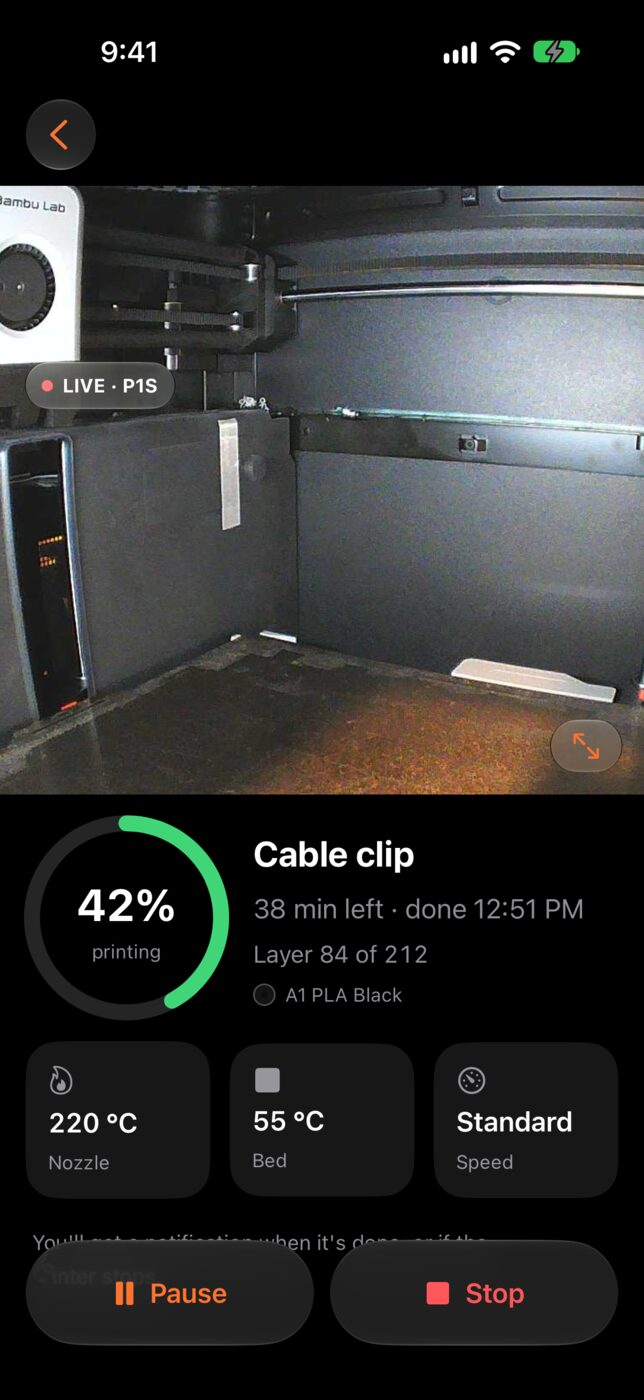
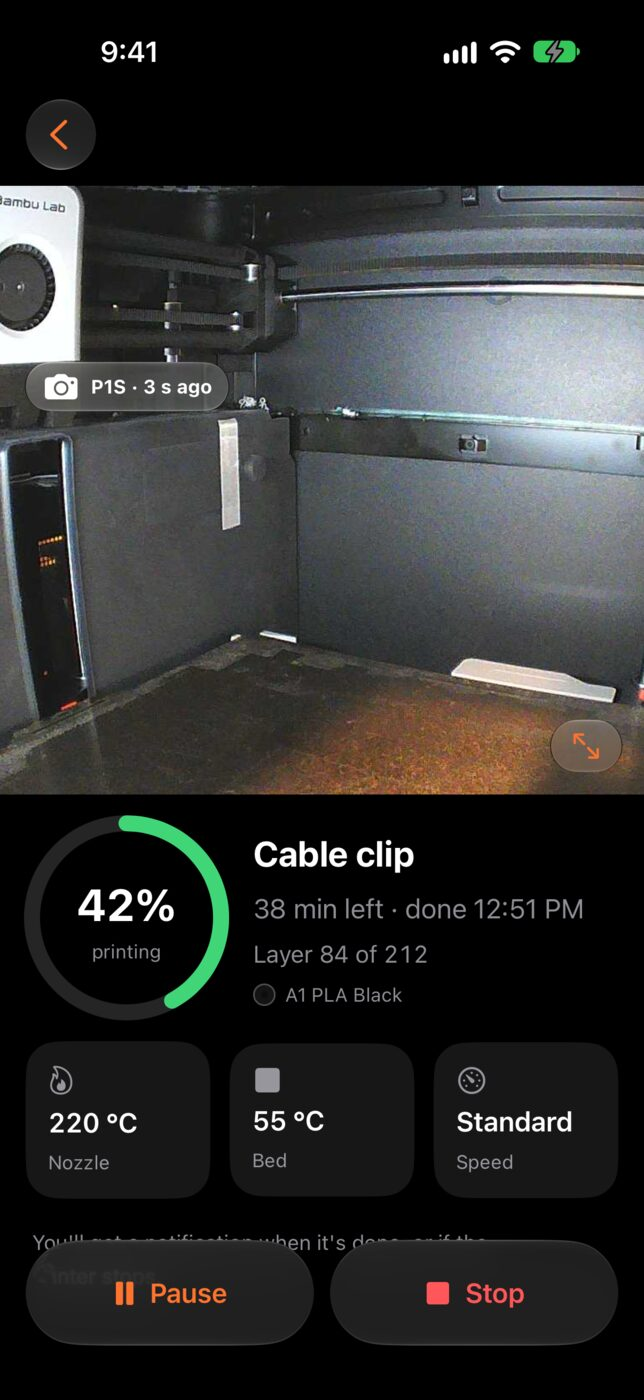
docs: overhaul PRD, exact back-end gaps and mockup fixes
Quality/strength become named slice_stl arguments in both MCPs; v1 prints
one colour with multi-colour as M3b (per-body export, counterpart_make_3mf,
load_filament_ids); HMS message and stage tables marked new (generated from
the pinned Bambu Studio resources); relay auth is token-scoped rate limiting
in a Durable Object; CloudKit works under Developer ID; delivery needs the
Mac app running; CloudKit coalescing limits restored. Mockups: camera shown
as a refreshing photo, bottom bars use safeAreaBar, sidebar thumbnails fixed.

Claude-Session: https://claude.ai/code/session_016NCatpjNt92tzrh631HByq

Changed region(s): [[0.0621, 0.2457, 0.3727, 0.3071]]

diff --git a/docs/design/overhaul/mockup-app/iOS/Print.swift b/docs/design/overhaul/mockup-app/iOS/Print.swift
@@ -211,7 +211,7 @@ struct PrintingView: View {
             VStack(alignment: .leading, spacing: 18) {
                 FillImage(name: "bed.jpg", height: 380)
                     .overlay(alignment: .topLeading) {
-                        HStack(spacing: 6) { Circle().fill(.red).frame(width: 7); Text("LIVE · P1S").font(.caption.weight(.bold)) }
+                        HStack(spacing: 6) { Image(systemName: "camera.fill"); Text("P1S · 3 s ago").font(.caption.weight(.bold)) }
                             .padding(.horizontal, 10).padding(.vertical, 6).glassEffect(.regular, in: .capsule).padding(.top, 110).padding(.leading, 16)
                     }
                     .overlay(alignment: .bottomTrailing) {
@@ -250,7 +250,7 @@ struct PrintingView: View {
         .toolbar {
             ToolbarItem(placement: .topBarLeading) { Button { } label: { Image(systemName: "chevron.left") } }
         }
-        .safeAreaInset(edge: .bottom) {
+        .safeAreaBar(edge: .bottom) {
             GlassEffectContainer(spacing: 10) {
                 HStack(spacing: 10) {
                     Button { } label: { Label("Pause", systemImage: "pause.fill").frame(maxWidth: .infinity).frame(height: 36) }.buttonStyle(.glass)

diff --git a/docs/design/overhaul/mockup-app/iOS/Home.swift b/docs/design/overhaul/mockup-app/iOS/Home.swift
@@ -70,7 +70,7 @@ struct NowPrintingCard: View {
         HStack(spacing: 14) {
             ZStack(alignment: .topLeading) {
                 FillImage(name: "bed.jpg", height: 96).frame(width: 96)
-                Text("LIVE").font(.system(size: 9, weight: .heavy)).padding(.horizontal, 5).padding(.vertical, 2).background(.red, in: .capsule).padding(6)
+                Text("3 s ago").font(.system(size: 9, weight: .heavy)).padding(.horizontal, 5).padding(.vertical, 2).background(.black.opacity(0.6), in: .capsule).padding(6)
             }
             .clipShape(.rect(cornerRadius: 18))
             VStack(alignment: .leading, spacing: 6) {

diff --git a/docs/design/overhaul/mockup-app/iOS/Project.swift b/docs/design/overhaul/mockup-app/iOS/Project.swift
@@ -55,7 +55,7 @@ struct ProjectView: View {
                 } label: { Image(systemName: "ellipsis") }
             }
         }
-        .safeAreaInset(edge: .bottom) { if project.stage != .needsYou { bottomBar } }
+        .safeAreaBar(edge: .bottom) { if project.stage != .needsYou { bottomBar } }
     }
 
     // MARK: Hero

diff --git a/docs/design/overhaul/PRD.md b/docs/design/overhaul/PRD.md
@@ -200,9 +200,10 @@ Screenshot: `screens/phone-print.jpg`. The flow is modelled on Bambu Handy and M
   - Offline printers are dimmed and show why.
   - The last printer used is preselected.
 - **Plate preview.** The model on a plate, with time, grams and layer count as glass capsules. These come from slicing with the printer MCP (`slice_stl` and its estimate) as soon as a printer is chosen.
-- **Colours:**
-  - Each part or colour of the model maps to an AMS slot or the loaded spool, matched by the MCP's material and colour.
-  - Tap a slot to change it. Grams are shown per colour.
+- **Colours.**
+  - **v1: one colour.** Pick an AMS slot or the loaded spool. It's preselected by matching the MCP's live filaments to the profile's material. Grams are shown.
+  - **Multi-colour (M3b), when the result has separate parts.** Each part maps to a slot, and grams are shown per part. The pipeline is in §8.5.
+  - The mockup shows the multi-colour version.
   - A printer without an AMS shows "Uses the loaded filament: *material colour*", with a reminder to change it if needed.
 - **Quality:** Draft, Standard or Fine (layer height).
 - **Strength:** Standard, Strong or Max (walls and infill).
@@ -420,6 +421,8 @@ Both MCPs gain the same small set of tools with the same arguments and results. 
 | `counterpart_print_progress` | new; wraps `getStatus` | new; per-firmware mapping below |
 | `camera_snapshot` | existing | **new**, with the same arguments and result as Bambu's |
 | `get_printer_filaments` | existing | **new**, single-slot result |
+| `slice_stl` arguments | **add** `layer_height` (mm), `wall_loops` (int) and `sparse_infill_density` (e.g. `"15%"`). The MCP writes them as a process override on top of the machine and process preset it already resolves (Bambu Studio/Orca keys `layer_height`, `wall_loops`, `sparse_infill_density`). Today the only route is a whole `slicer_profile` file | **add** the same three arguments, mapped to the slicer in use (Orca keys as for Bambu; PrusaSlicer `layer_height`, `perimeters`, `fill_density`) |
+| `counterpart_make_3mf` (M3b) | **new**: `{parts: [{stl_path, name}], out_path}` → a multi-object 3MF, one object per part, for multi-colour | not needed: generic printers are single-extruder in v1 |
 | `pause_print` / `resume_print` / `cancel_print` | existing | `cancel_print` exists; **add** pause and resume |
 | `print_3mf` result | **add** `taskId` and `subtaskName` to the result. It already sends `task_id = submissionId` and `subtask_name` (`printers/bambu.ts:957-961`) but doesn't return them | `upload_gcode` / `start_print` result: **add** `jobName` (the remote file name) |
 
@@ -451,7 +454,7 @@ Both MCPs gain the same small set of tools with the same arguments and results. 
 
 | Firmware | Request | state | progress / time | layers | problems |
 |---|---|---|---|---|---|
-| **Bambu** (MQTT report, cached) | none; reads the MCP's `reportSnapshots` | `gcode_state`: IDLE→idle, PREPARE/SLICING→preparing, RUNNING→printing, PAUSE→paused, FINISH→finished, FAILED→failed | `mc_percent`; `mc_remaining_time` is in **minutes**, so ×60 | `layer_num`, `total_layer_num` | `print_error` (non-zero, as 8-digit hex); each `hms[]` entry as `AAAA_BBBB_CCCC_DDDD` from `attr`/`code`. Messages come from Bambu's published HMS table, bundled in the MCP; `url` points to Bambu's page for that code. `stg_cur` maps to `job.stage` through the MCP's stage table |
+| **Bambu** (MQTT report, cached) | none; reads the MCP's `reportSnapshots` | `gcode_state`: IDLE→idle, PREPARE/SLICING→preparing, RUNNING→printing, PAUSE→paused, FINISH→finished, FAILED→failed | `mc_percent`; `mc_remaining_time` is in **minutes**, so ×60 | `layer_num`, `total_layer_num` | `print_error` (non-zero, as 8-digit hex); each `hms[]` entry as `AAAA_BBBB_CCCC_DDDD` from `attr`/`code`. **New:** messages come from a generated `src/safety/hms-messages.ts`, built from the same Bambu Studio `resources/hms/hms_en_<prefix>.json` files and pinned tag that `scripts/generate-hidden-hms.mjs` already reads for `hidden-hms.ts`. `url` points to Bambu's page for that code. **New:** `stg_cur` maps to `job.stage` through a generated stage table, from Bambu Studio's stage strings at the same tag; the MCP has none today |
 | **OctoPrint** | `GET /api/job`, plus `GET /api/printer` for temperatures | `state` text: Printing→printing, Pausing/Paused→paused, Operational→idle (finished when the last job's `progress.completion` = 100), Error→failed, Offline→offline | `progress.completion`; `progress.printTime`; `progress.printTimeLeft` | not in core: omitted | `state.error` |
 | **Klipper** (Moonraker) | `GET /printer/objects/query?print_stats&virtual_sdcard&display_status&extruder&heater_bed&webhooks` | `print_stats.state`: standby→idle, printing, paused, complete→finished, cancelled, error→failed; `webhooks.state` ≠ ready→busy | `display_status.progress` ×100 (falling back to `virtual_sdcard.progress`); `print_stats.print_duration`; remaining = file `estimated_time` (`GET /server/files/metadata?filename=`) − `print_duration` | `print_stats.info.current_layer` / `total_layer` (set when the slicer emits `SET_PRINT_STATS_INFO`; OrcaSlicer and PrusaSlicer do) | `print_stats.message`; `webhooks.state_message` |
 | **PrusaLink** | `GET /api/v1/status` | `printer.state`: PRINTING, PAUSED, FINISHED, STOPPED→cancelled, ERROR→failed, ATTENTION→paused (with a problem), IDLE/READY→idle, BUSY→busy | `job.progress`; `job.time_printing`; `job.time_remaining` | omitted | ATTENTION/ERROR plus `GET /api/v1/job` details |
@@ -501,10 +504,16 @@ Each change follows the MCP repo's own AGENTS.md and release process.
     - layer height Draft 0.28 / Standard 0.20 / Fine 0.12 mm;
     - walls and infill Standard 2/15%, Strong 4/25%, Max 6/40%.
 
-    They go in through `slice_stl`'s existing settings arguments or `slice_with_template`, whichever the installed MCP exposes. Detect which from its tool schema, as `print.ts` already does for its other optional arguments.
-  - **Colour map:**
-    - Bambu: `ams_mapping` / `ams_slots`, or `auto_match_ams` when the user didn't change it.
-    - Generic: the material chosen for the single slot.
+    They go in as the new `slice_stl` arguments `layer_height`, `wall_loops` and `sparse_infill_density` (§8.4). If the installed MCP lacks them (checked from its tool schema, as `print.ts` already does for its other optional arguments), the print sheet shows only Standard, which means the preset's own values.
+  - **Colour, v1 (one colour):**
+    - Bambu: `print_3mf` with `use_ams: true` and `ams_slots: [chosen tray index]`, or `auto_match_ams: true` when the user kept the preselection.
+    - Bambu, external spool: `use_ams: false`.
+    - Generic: `slice_stl` with the chosen material's filament profile through `load_filaments`.
+  - **Colour, M3b (multi-colour):**
+    1. The touch-up or design pass exports each body as its own STL through the printer MCP's Blender bridge (`blender_mcp_call`, export of the selected object). The pass contract gains `parts: [{name, stl}]`.
+    2. `counterpart_make_3mf` combines them.
+    3. `slice_stl` slices with `load_filaments` (one profile per chosen slot) and `load_filament_ids`. Both are existing arguments that map filaments to objects.
+    4. `print_3mf` prints with `ams_mapping` set from the print sheet.
 - **Plate check (existing, extended).**
   - Before `print_3mf`, the companion takes `camera_snapshot`, and `judgePlate` (`objects/bedcheck.ts`) asks the user's own Claude.
   - **Clear:** nothing is shown and the run continues.
@@ -619,14 +628,20 @@ For every event with `notify ≠ none`:
 
 **Live Activity relay** (new: a Cloudflare Worker at `https://counterpart.dtmont.com/relay/v1`).
 - **Why it's needed.** A Live Activity updates on the Lock Screen only from the app itself or from an APNs push signed with the team's key. Apple says that key "must remain private", so it can't ship in the Mac app.
-- **Cost.** The Worker holds only that key (secrets `APNS_KEY_P8`, `APNS_KEY_ID`, `TEAM_ID = X7F5F9LR24`) and stores nothing. It fits Cloudflare's free tier.
+- **Cost.** The Worker holds the key as secrets (`APNS_KEY_P8`, `APNS_KEY_ID`, `TEAM_ID = X7F5F9LR24`). Its only state is rate-limit counters (below); it stores no tokens, payloads or user data. It fits Cloudflare's free tier.
 - **The one manual step:** the owner creates the APNs key in the developer portal.
 - **Phone → Mac:**
   - The phone sends its push-to-start token (`Activity<PrintAttributes>.pushToStartTokenUpdates`) and each activity's update token (`activity.pushTokenUpdates`) to the Mac. On the LAN they go through `POST /v1/devices/live-activity-tokens` (new); otherwise through a `CounterpartDevice` CloudKit record.
   - Tokens never go to the Worker except inside a push request.
 - **Mac → Worker:** `POST /relay/v1/live-activity` with `{token, kind: "start"|"update"|"end", attributes?, contentState, staleDate, priority, alert?}`.
-  - The request is signed with a per-install key registered on first use.
-  - The Worker validates the payload against the `PrintAttributes` schema, limits each install to one update every 10 s per activity and 2,000 a day, and rejects anything else. It is not a general push relay.
+  - **Threat model.** A Live Activity push token is known only to the user's own devices and Mac, so a caller without a token can't reach anyone. The Worker's job is to stop abuse of the team's APNs key: floods, or pushes that aren't Live Activities.
+  - **Payload checks.** The Worker validates the payload against the `PrintAttributes` / content-state schema (title ≤ 80 chars, alert ≤ 200 chars) and rejects anything else. It is not a general push relay.
+  - **Rate limits,** each kept in a Durable Object with a 24-hour window, keyed as shown:
+    - per token (SHA-256 of the token): one update every 10 s and 2,000 a day;
+    - per client IP: 20,000 a day;
+    - globally: a daily cap.
+  - **An APNs `410` or `BadDeviceToken`** adds the token hash to a 30-day deny list, in the same Durable Object.
+  - **No per-install authentication in v1.** App Attest is documented as unavailable on Mac. macOS 27 reports are still provisional ([Apple docs](https://developer.apple.com/documentation/devicecheck/dcappattestservice/issupported), [forum](https://developer.apple.com/forums/thread/836329)). If `DCAppAttestService.isSupported` returns true in the shipping Mac app, add attestation of the Mac app as a later hardening step.
 - **Worker → APNs:** HTTP/2 to `api.push.apple.com`, with these headers:
   - `apns-push-type: liveactivity`;
   - `apns-topic: com.scantomake.push-type.liveactivity`;
@@ -637,6 +652,11 @@ For every event with `notify ≠ none`:
   - `start` on `print.started` (push-to-start, so it appears even if the phone app isn't open);
   - `update` on each `print.status`, `print.paused` and `print.resumed`;
   - `end` on done, failed or cancelled, with a `dismissal-date` 4 hours later.
+- **CloudKit works with Developer ID.** The Mac app can use CloudKit and push whether it ships through the Mac App Store or with Developer ID. Apple has allowed CloudKit and remote notifications for Developer ID-signed apps since 2016 ([summary](https://mjtsai.com/blog/2016/06/16/cloudkit-and-map-kit-for-gatekeeper-apps)). Deploy the CloudKit schema to production before the first release, because Developer ID and App Store builds use the production environment.
+- **Delivery depends on the Mac app running.** Events are always logged by the companion, which runs as its own `SMAppService` agent. They only reach the phone, CloudKit and the relay while Counterpart for Mac is running.
+  - The app opens at login by default (journey.md §3.3).
+  - Its **Quit** menu item reads "Quit Counterpart (your phone stops getting updates)".
+  - On the next launch, catch-up writes every missed record to CloudKit. It notifies only for terminal events (`print.done`, `print.failed`, `pass.ready`, `pass.ask`) that are still unanswered, once each.
 - **Without the relay** (no key yet, or the Worker is unreachable):
   - The phone starts the activity itself when the user taps Print, or the next time the app opens during a print.
   - It updates the activity whenever it gets time: in the foreground, on CloudKit content-available pushes, and on `BGAppRefreshTask`.
@@ -697,6 +717,11 @@ The app's `Localizable.strings` maps `"%1$@" = "%1$@";`.
 4. Sets `threadIdentifier = projectId` and a `relevanceScore`.
 
 If the fetch runs past the extension's time limit, the notification is delivered without the image.
+
+**CloudKit's limits, stated honestly.** CloudKit coalesces pushes and can leave fields out to stay under APNs' size limit. Apple: "don't rely on them for specific changes".
+- Discrete events (ready, ask, plate, milestone, done, failed) are reliable enough as alerts. When the app opens, it always reconciles from the records, never from the pushes.
+- Silent `proj-silent` pushes are throttled by iOS, so they can't carry per-percent progress. That's what the relay (§8.8) is for.
+- Everything needs the same iCloud account on both devices. Without iCloud, the phone gets events only from the LAN long poll while the app is running or has background time. Settings says so.
 
 **Actions:**
 - Background actions without a destructive outcome run without opening the app: **Ask for Changes…** (`UNTextInputNotificationAction`), **Best Guess**, **Look Again**, **It's Clear**, **Pause** and **Resume**.
@@ -809,9 +834,10 @@ Each milestone ends in an on-device check with screenshots compared against `scr
 | # | Milestone | Done when |
 |---|---|---|
 | M0 | **Foundation.** `CounterpartKit` package; pure-SwiftUI iPhone app shell; pairing ported out of React Native; React Native removed. | The app pairs by QR and by the nearby card on a real iPhone, and the app bundle no longer contains React Native |
-| M1 | **Back end and notifications.** All of the following:<br>• fixes: `remaining` → `timeRemaining`, "printed" set only on finish, catalog de-duplication, Codex `config.toml` source<br>• `PrinterSessionPool`<br>• `counterpart_printer_info` and `counterpart_print_progress`, plus `taskId` in the `print_3mf` result, in bambu-printer-mcp<br>• print monitor<br>• event log, `GET /v1/events` and `events.wait`<br>• Mac `EventRelay` (Mac notifications and CloudKit)<br>• iPhone subscriptions, Notification Service Extension and background actions<br>• structured `pass.*` events, with a generated title and a what-changed summary | On a real P1S print, all of these hold:<br>• with the phone locked and on cellular, the halfway notification arrives with a camera frame, and so does "done"<br>• restarting the companion mid-print sends no duplicate milestone<br>• a print that never starts produces `print.not-started` within 3 min<br>• replying to a "ready" notification from the Lock Screen starts a new pass |
+| M1 | **Back end and notifications.** All of the following:<br>• fixes: `remaining` → `timeRemaining`, "printed" set only on finish, catalog de-duplication, Codex `config.toml` source<br>• `PrinterSessionPool`<br>• `counterpart_printer_info` and `counterpart_print_progress` (with the generated HMS and stage tables), plus `taskId` in the `print_3mf` result, in bambu-printer-mcp<br>• print monitor<br>• event log, `GET /v1/events` and `events.wait`<br>• Mac `EventRelay` (Mac notifications and CloudKit)<br>• iPhone subscriptions, Notification Service Extension and background actions<br>• structured `pass.*` events, with a generated title and a what-changed summary | On a real P1S print, all of these hold:<br>• with the phone locked and on cellular, the halfway notification arrives with a camera frame, and so does "done"<br>• restarting the companion mid-print sends no duplicate milestone<br>• a print that never starts produces `print.not-started` within 3 min<br>• replying to a "ready" notification from the Lock Screen starts a new pass |
 | M2 | **iPhone core.** Home, New, Project (all states), Ask card, Settings and About. | Each screen matches its mockup on iPhone 18 Pro, iPhone 17e, Duo closed and iPad |
-| M3 | **Print and Live Activity.**<br>• print sheet (printers from both MCPs, slice estimate, colour map, quality, strength)<br>• plate check with the alert and per-printer notes<br>• Printing screen with the camera<br>• pause, resume and stop<br>• Live Activity, with the relay Worker once the APNs key exists<br>• the Counterpart tools, `camera_snapshot`, `get_printer_filaments`, pause and resume in mcp-3D-printer-server<br>• `CounterpartCommand` for use away from home | All of these hold:<br>• a real P1S print from the phone shows the Live Activity on the Lock Screen and the Mac menu bar, counting down<br>• a deliberate plate obstruction is caught and cleared with Look Again<br>• a full run on OctoPrint's virtual printer and a Klipper simulator through mcp-3D-printer-server delivers progress, the halfway notification and done<br>• Pause from the Lock Screen pauses the P1S |
+| M3 | **Print and Live Activity.**<br>• print sheet (printers from both MCPs, slice estimate, colour map, quality, strength)<br>• plate check with the alert and per-printer notes<br>• Printing screen with the camera<br>• pause, resume and stop<br>• Live Activity, with the relay Worker once the APNs key exists<br>• the `slice_stl` quality arguments in both MCPs<br>• the Counterpart tools, `camera_snapshot`, `get_printer_filaments`, pause and resume in mcp-3D-printer-server<br>• `CounterpartCommand` for use away from home | All of these hold:<br>• a real P1S print from the phone shows the Live Activity on the Lock Screen and the Mac menu bar, counting down<br>• a deliberate plate obstruction is caught and cleared with Look Again<br>• a full run on OctoPrint's virtual printer and a Klipper simulator through mcp-3D-printer-server delivers progress, the halfway notification and done<br>• Pause from the Lock Screen pauses the P1S |
+| M3b | **Multi-colour.** The pass contract gains `parts`; per-body STL export through the Blender bridge; `counterpart_make_3mf`; `slice_stl` with `load_filaments`/`load_filament_ids`; `print_3mf` `ams_mapping`; per-part colour map in the print sheet. | A two-part result prints in two AMS colours on the P1S, from the phone |
 | M4 | **Mac rebuild.** SwiftUI scenes, main window, inspector, print sheet, popover, Settings with de-duplicated devices, drop-to-create. | The same project is visible and actionable on the Mac and the phone at once, and re-pairing a phone leaves one row |
 | M5 | **Scan in hand.** As specified in §11. | The §11 pass criteria are met on a real iPhone |
 | M6 | **System surfaces.** Widgets, Control Center control, App Intents and Siri, Spotlight, Share extension, iPad keyboard shortcuts. | Each one is demonstrated on a device |
@@ -822,5 +848,5 @@ Each milestone ends in an on-device check with screenshots compared against `scr
 
 ## 14. Open questions and the one manual step
 
-1. **Distribution.** TestFlight first for the iPhone app, and Developer ID with Sparkle for the Mac (journey.md §3.2)? Or App Store for both from the start?
+1. **Distribution.** TestFlight first for the iPhone app, and Developer ID with Sparkle for the Mac (journey.md §3.2)? Or App Store for both from the start? Either way CloudKit and push work (§8.8), so this choice doesn't block anything in M1–M3.
 2. **Manual step (not a decision): the APNs key.** The owner creates an APNs auth key in the Apple developer portal and puts it in the Worker's secrets. The Live Activity relay (§8.8) needs it. Everything else in M1 works without it, including notifications with frames.
